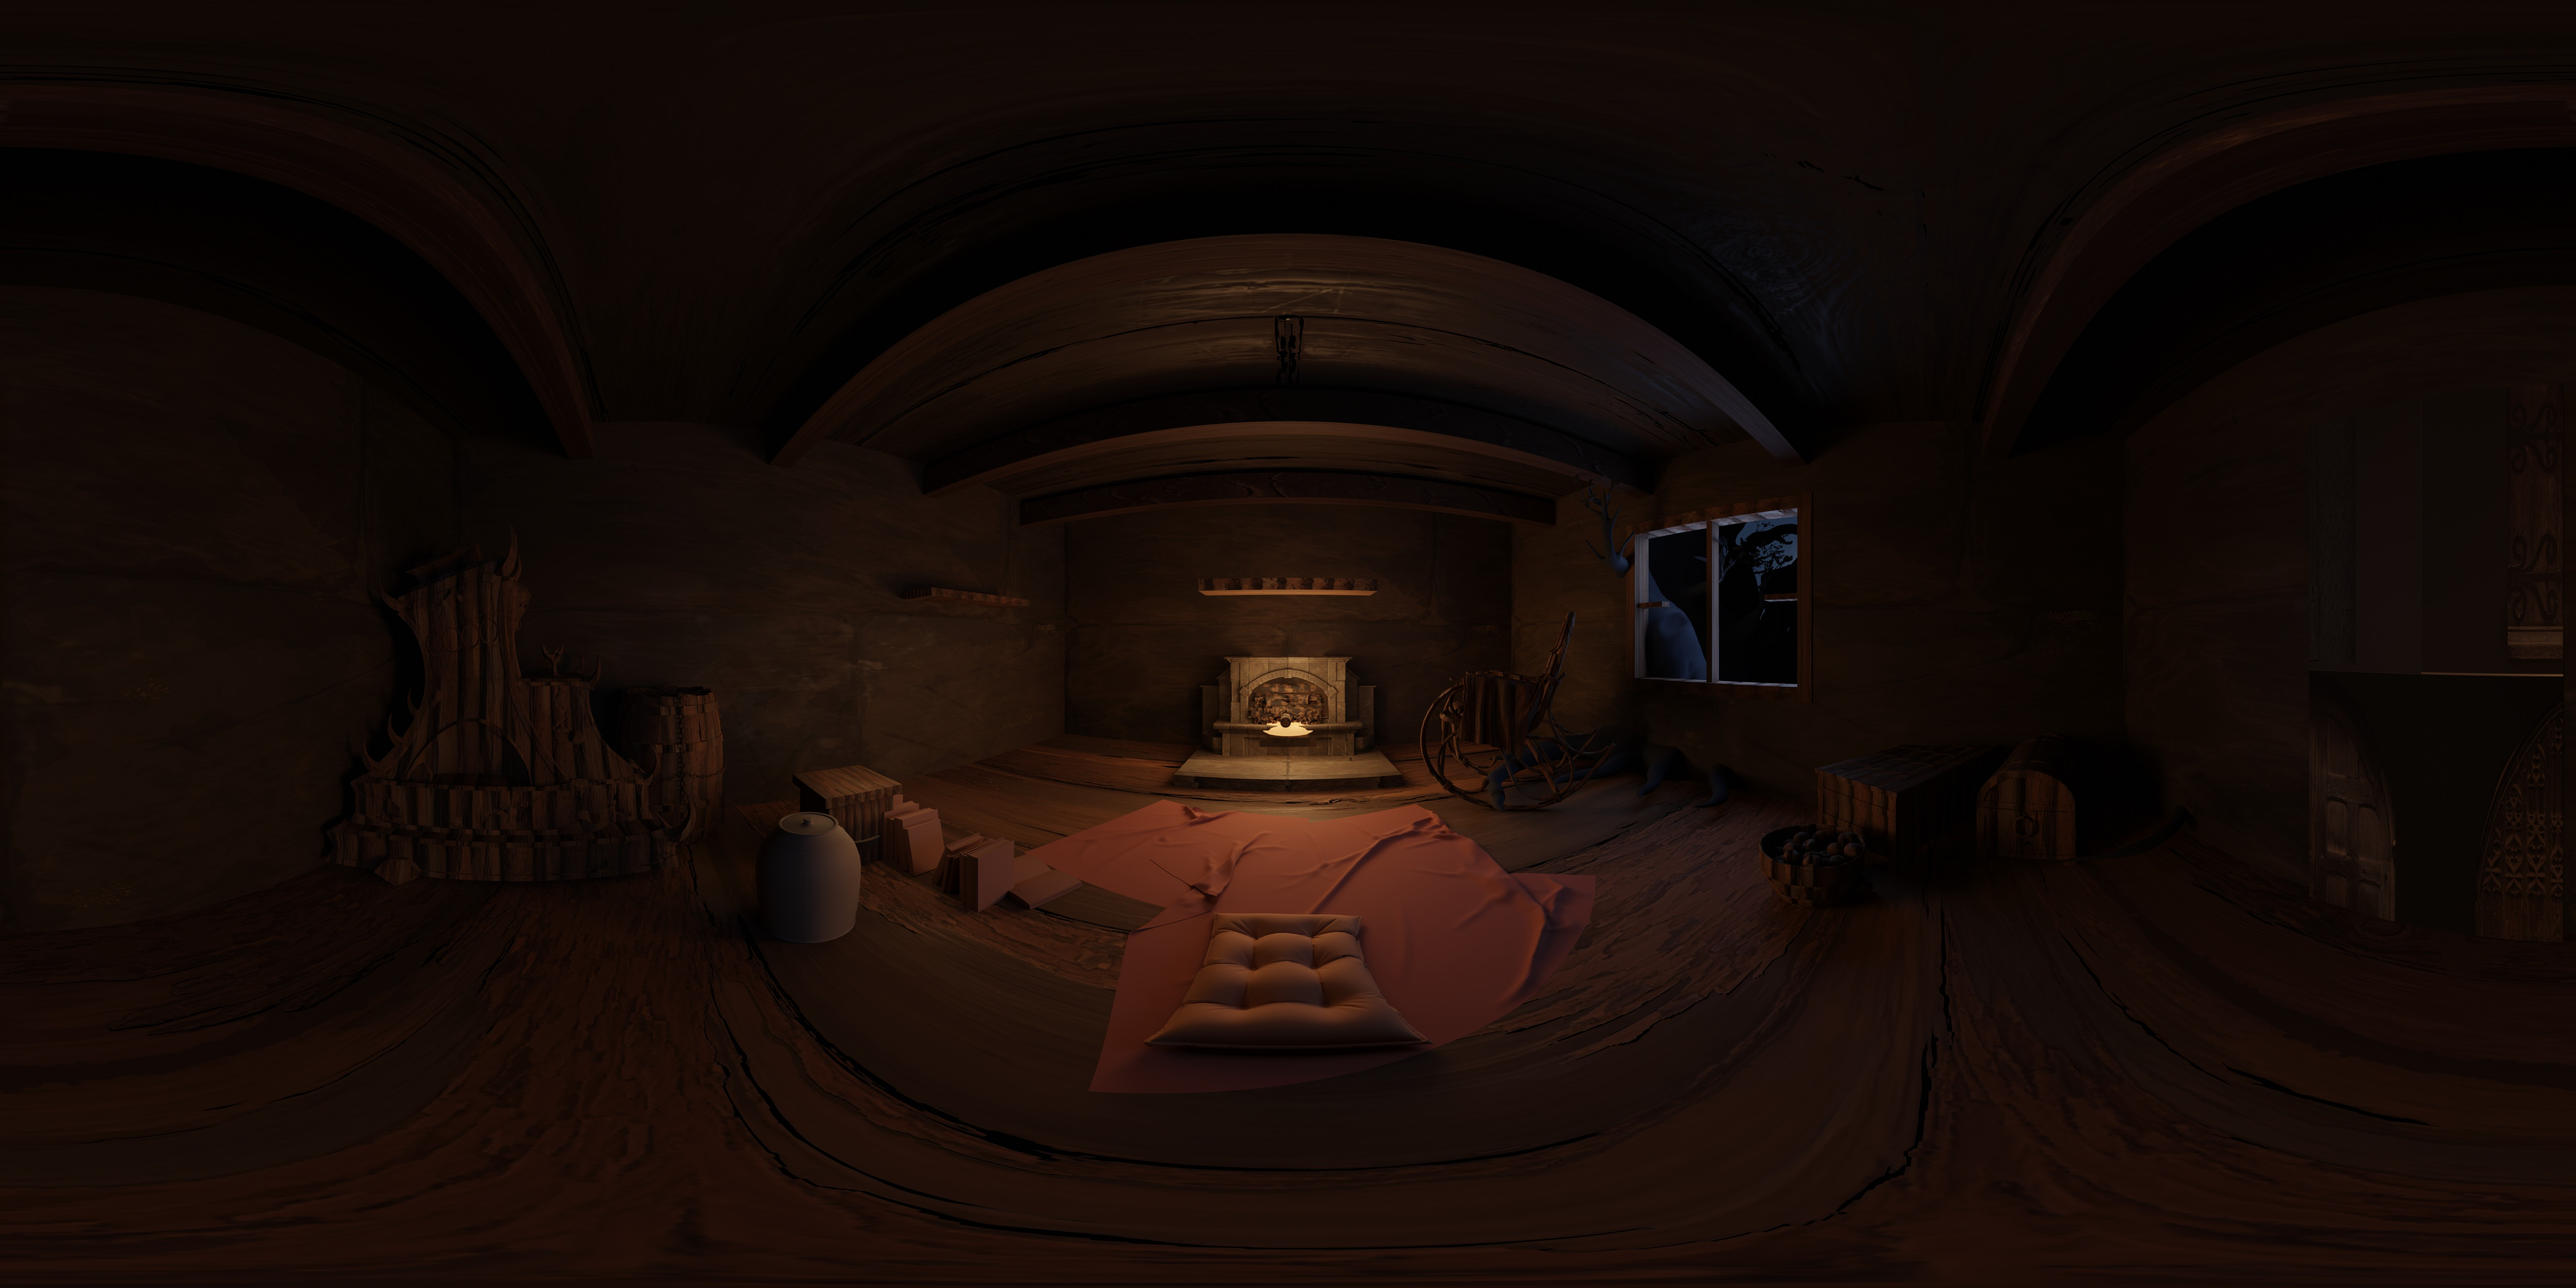
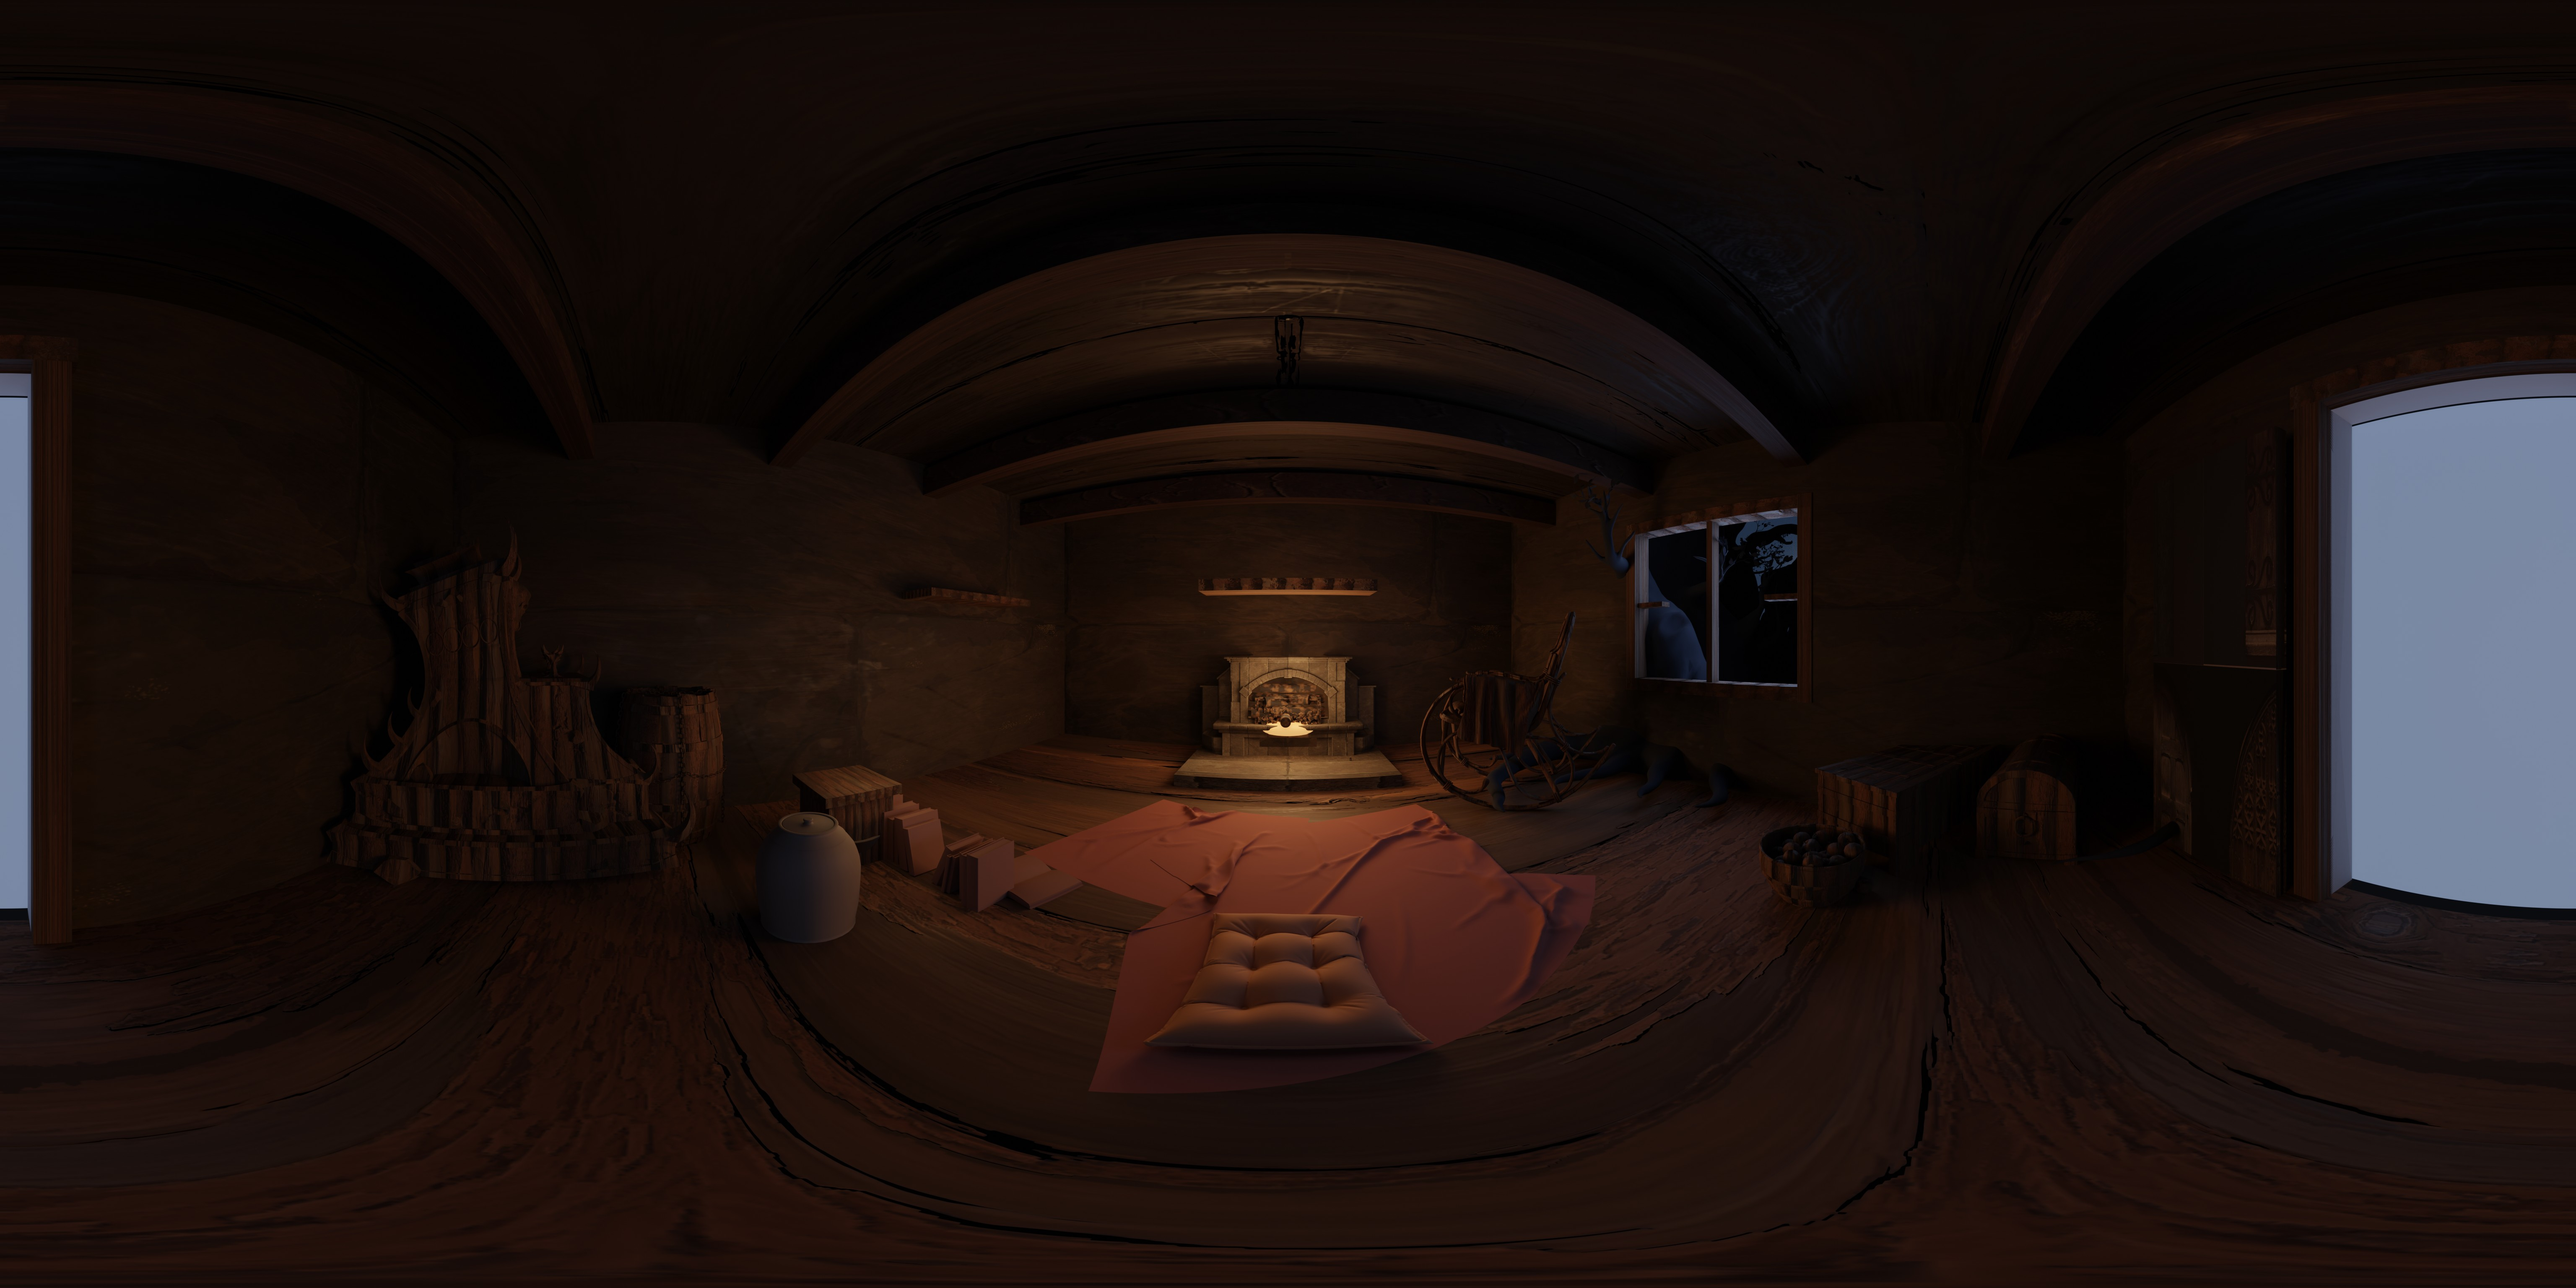
feat(cabin): an open moonlit doorway to step outside (indoor)
- replace the closed plank door on the back wall with an OPEN doorway: a cut
  opening, a soft cool moonlit glow of the night beyond, a wood frame, and the
  plank door swung open against the wall
- move the "外へ出る" marker onto the doorway (扉から外へ出る), so you step out
  through the actual door
- re-rendered cabin360.jpg (6K) + still

Changed region(s): [[0.875, 0.2812, 1.0, 0.75], [0.0, 0.2812, 0.0312, 0.7188]]

diff --git a/cabin.html b/cabin.html
@@ -1781,7 +1781,7 @@ const MARKERS = [
   { key:'meditate', lon:0,   lat:-13, r:5.5, jp:'炎を見つめて瞑想する', en:'gaze into the fire' },
   { key:'writings', lon:41,  lat:-30, r:5,   jp:'小屋の物語と、整え方', en:'the writings' },
   { key:'window',   lon:-63, lat:1,   r:6,   jp:'夜の森をのぞむ',       en:'the night forest' },
-  { key:'outside',  lon:-92, lat:-5,  r:6,   jp:'外へ出る · 夜の湖へ',   en:'step out to the lake' },
+  { key:'outside',  lon:186, lat:-14, r:6,   jp:'扉から外へ出る',        en:'step out the door' },
 ];
 // out by the lake under the stars
 const MARKERS_OUT = [

diff --git a/_blender/eci_meditation_360.py b/_blender/eci_meditation_360.py
@@ -244,7 +244,7 @@ def add_box(name, sx, sy, sz, loc, mat):
 add_box('Floor', RX*2, RY*2, 0.12, (0, 0, -0.06), MAT['floor'])
 add_box('Ceiling', RX*2, RY*2, 0.18, (0, 0, H+0.09), MAT['ceil'])
 add_box('Wall_N', RX*2, 0.16, H, (0,  RY, H/2), MAT['wall'])
-add_box('Wall_S', RX*2, 0.16, H, (0, -RY, H/2), MAT['wall'])
+wallS = add_box('Wall_S', RX*2, 0.16, H, (0, -RY, H/2), MAT['wall'])
 add_box('Wall_W', 0.16, RY*2, H, (-RX, 0, H/2), MAT['wall'])
 wallE = add_box('Wall_E', 0.16, RY*2, H, (RX, 0, H/2), MAT['wall'])
 
@@ -268,8 +268,12 @@ add_box('Mantel', 1.5, 0.34, 0.10, (0, 2.05, 1.62), MAT['wood'])
 # side stool under lantern
 add_box('StoolTop', 0.40, 0.40, 0.05, (-1.78, -0.55, 0.40), MAT['wood'])
 add_box('StoolLeg', 0.34, 0.34, 0.40, (-1.78, -0.55, 0.20), MAT['wood'])
-# closed plank door on back wall
-add_box('Door', 0.92, 0.06, 2.05, (0.5, -RY+0.11, 1.02), MAT['door'])
+# open doorway to the night — the way outside (cool moonlight spills in)
+boolean_cut(wallS, 1.0, 0.5, 2.15, (0.4, -RY, 1.07))
+add_box('NightOut', 1.04, 0.05, 2.15, (0.4, -RY-0.12, 1.07), make_emissive('door_night', (0.12, 0.17, 0.30), 1.0))
+for fx, fz, fsx, fsz in [(-0.16, 1.07, 0.12, 2.26), (0.96, 1.07, 0.12, 2.26), (0.4, 2.22, 1.28, 0.13)]:
+    add_box('DoorFrame', fsx, 0.24, fsz, (fx, -RY+0.04, fz), MAT['wood'])
+add_box('Door', 0.9, 0.06, 2.05, (1.5, -RY+0.2, 1.02), MAT['door'])   # the plank door, swung open against the wall
 # wall shelf on -X with book stacks feel
 add_box('Shelf', 0.34, 1.2, 0.06, (-RX+0.28, 1.0, 1.5), MAT['wood'])
 
